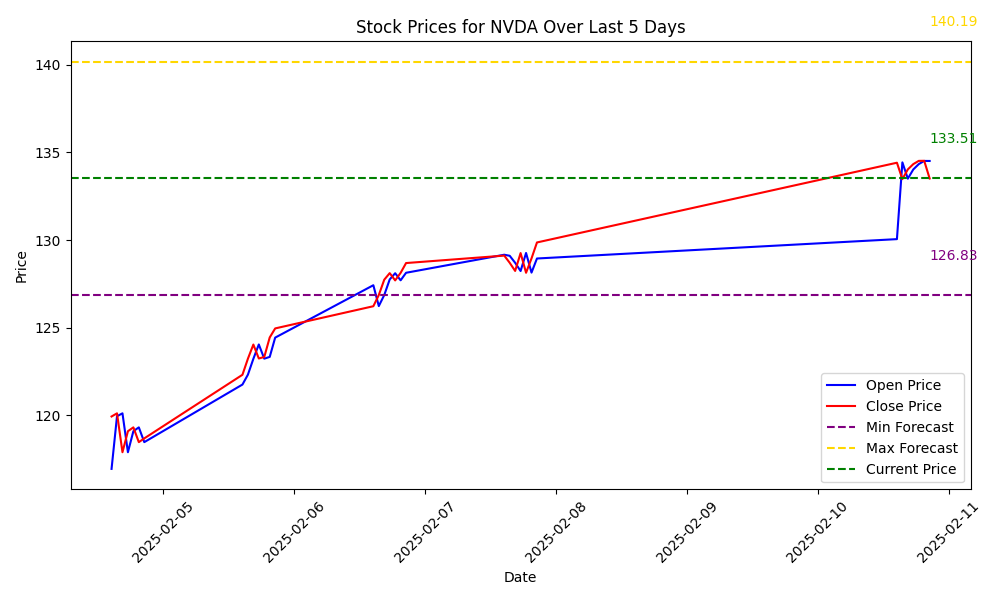
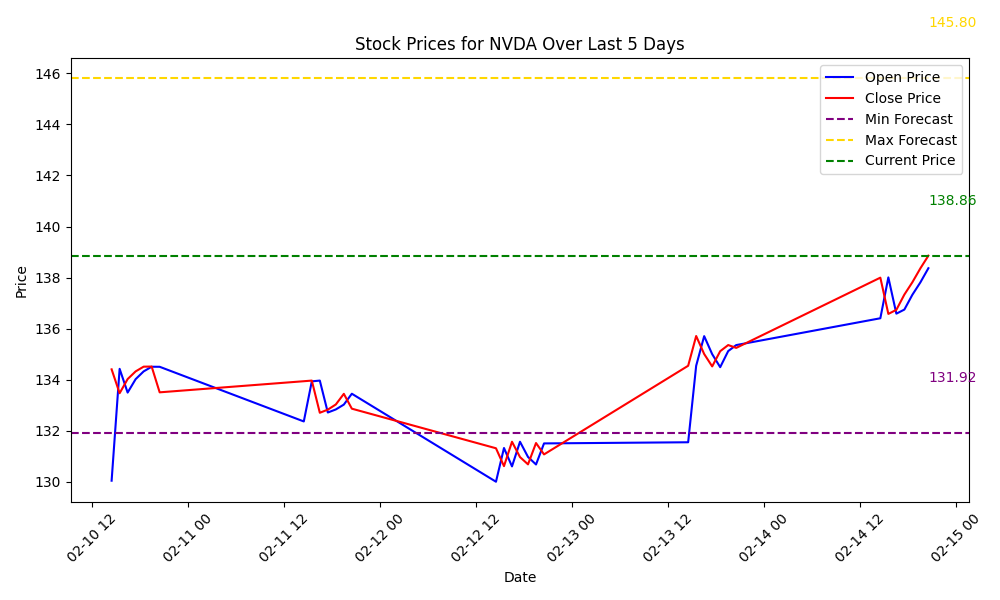
Testing new version

diff --git a/src/model/price_core.py b/src/model/price_core.py
@@ -1,6 +1,7 @@
+import logging
 import os
 from datetime import datetime, timedelta
-import logging
+from pathlib import Path
 
 import joblib
 import matplotlib.pyplot as plt
@@ -12,215 +13,171 @@ from keras.models import load_model
 
 logging.basicConfig(level=logging.INFO)
 
+
 class StockPredictor:
     def __init__(self, model_path=None, scaler_path=None):
-        self.model_path = model_path or os.path.join(os.getcwd(), "IPSA_MODEL", "price", "stock_model.keras")
-        self.scaler_path = scaler_path or os.path.join(os.getcwd(), "IPSA_MODEL", "price", "scaler.save")
+        # Определяем базовую директорию
+        self.base_dir = Path(__file__).parent.parent / "IPSA_MODEL" / "price"
 
-        self.model = load_model(self.model_path)
-        self.scaler = joblib.load(self.scaler_path)
+        # Устанавливаем пути по умолчанию
+        self.model_path = model_path or self.base_dir / "best_model.keras"
+        self.scaler_path = scaler_path or self.base_dir / "stock_scaler.save"
+        # Проверяем существование файлов
+        self._check_files_exist()
 
+        # Загружаем модель и scaler
+        self.model = load_model(str(self.model_path))
+        self.scaler = joblib.load(str(self.scaler_path))
 
-    def predict_price(self, ticker, window_size=249):  # Set window_size to match the model's expected time steps
+        self.window_size = 365
+        self.forecast_days = 60
+
+    def _check_files_exist(self):
+        """Проверяет существование необходимых файлов"""
+        missing_files = []
+
+        if not self.model_path.exists():
+            missing_files.append(str(self.model_path))
+
+        if not self.scaler_path.exists():
+            missing_files.append(str(self.scaler_path))
+
+        if missing_files:
+            raise FileNotFoundError(
+                f"Missing required files: {', '.join(missing_files)}\n"
+                "Please train the model first or provide correct paths."
+            )
+
+    def predict_future(self, ticker):
+        # Загрузка исторических данных
         end_date = datetime.now()
-        start_date = end_date - timedelta(days=window_size)
+        start_date = end_date - timedelta(days=self.window_size + self.forecast_days)
 
-        # Download data
-        data = yf.download(
-            ticker,
-            start=start_date.strftime("%Y-%m-%d"),
-            end=end_date.strftime("%Y-%m-%d"),
+        data = yf.download(ticker, start=start_date, end=end_date)
+
+        if data.empty:
+            raise ValueError(f"No historical data for {ticker}")
+
+        # Подготовка данных
+        scaled_data = self.scaler.transform(
+            data[["Open", "High", "Low", "Close", "Volume", "Adj Close"]]
         )
 
-        # Select multiple features for scaling
-        last_data = data[["Open", "High", "Low", "Close", "Volume", "Adj Close"]].values[-window_size:]
+        # Итеративное прогнозирование
+        predictions = []
+        current_window = scaled_data[-self.window_size :]
 
-        # Scale the data
-        last_data_scaled = self.scaler.transform(last_data)
+        for _ in range(self.forecast_days):
+            # Прогноз следующего дня
+            next_pred = self.model.predict(current_window[np.newaxis, ...])[0][0]
 
-        # Prepare data for the model
-        X_test = np.array([last_data_scaled])  # Shape: (1, 249, 6)
+            # Создание фиктивных данных для следующего шага
+            new_row = np.array(
+                [
+                    [
+                        next_pred,  # Open
+                        next_pred,  # High
+                        next_pred,  # Low
+                        next_pred,  # Close
+                        current_window[-1, 4],  # Volume (последнее известное значение)
+                        next_pred,  # Adj Close
+                    ]
+                ]
+            )
 
-        # Reshape to match the model's input shape
-        X_test = np.reshape(X_test, (X_test.shape[0], X_test.shape[1], X_test.shape[2]))  # Shape: (1, 249, 6)
+            # Обновление окна
+            current_window = np.concatenate([current_window[1:], new_row], axis=0)
+            predictions.append(next_pred)
 
-        # Predict the price
-        predicted_probabilities = self.model.predict(X_test)
+        # Обратное масштабирование прогнозов
+        dummy_data = np.zeros((len(predictions), 6))
+        dummy_data[:, 3] = predictions  # Используем позицию Close
+        predictions = self.scaler.inverse_transform(dummy_data)[:, 3]
 
-        # Clear session to free memory
-        tf.keras.backend.clear_session()
-
-        # Calculate the predicted price
-        predicted_price = last_data[-1, 3] * (1 + (predicted_probabilities[0][0] - 0.5) * 0.1)  # Example calculation
-
-        return float(predicted_price), float(predicted_probabilities[0][0])  # Return predicted price and probability as floats
+        return predictions
 
     def analyze(self, ticker, threshold=0.05):
-        predicted_price, predicted_probability = self.predict_price(ticker)
+        try:
+            predictions = self.predict_future(ticker)
 
-        current_price_data = yf.download(ticker, period="1d")["Close"]
+            # Получаем данные и проверяем их наличие
+            data = yf.download(ticker, period="1d")
+            if data.empty:
+                return f"No data available for {ticker}"
 
-        if current_price_data.empty:
-            logging.error(f"No current price data found for ticker: {ticker}")
-            return None
+            # Явное преобразование к float
+            current_price = float(data["Close"].iloc[-1])
 
-        current_price = current_price_data.iloc[-1]
+            avg_prediction = np.mean(predictions)
+            price_change = (avg_prediction - current_price) / current_price
 
-        if isinstance(current_price, pd.Series):
-            current_price = current_price.iloc[0]
+            # Форматирование сообщения с округлением
+            message = (
+                "────────────────────────────\n"
+                f"{self.forecast_days}-day forecast for {ticker}\n"
+                f"Current price: {current_price:.2f}\n"
+                f"Average predicted price: {avg_prediction:.2f}\n"
+                f"Expected change: {price_change*100:.2f}%\n"
+            )
 
-        # Ensure both prices are floats
-        current_price = float(current_price)
-        predicted_price = float(predicted_price)
+            # Определение рекомендации
+            if price_change > threshold:
+                message += "Recommendation: STRONG BUY"
+            elif price_change > threshold / 2:
+                message += "Recommendation: BUY"
+            elif price_change < -threshold:
+                message += "Recommendation: STRONG SELL"
+            elif price_change < -threshold / 2:
+                message += "Recommendation: SELL"
+            else:
+                message += "Recommendation: HOLD"
 
-        # Form the message
-        message = f"Predicted price for {ticker} next month: {predicted_price:.2f}$\nCurrent price: {current_price:.2f}$\n"
+            return message
 
-        # Use predicted_probability directly since it's already a float
-        predicted_probability_value = predicted_probability  # No need for .item()
+        except Exception as e:
+            logging.error(f"Error in analyze: {str(e)}", exc_info=True)
+            return "Error generating prediction"
 
-        logging.info(f"Probability of price increase: {predicted_probability_value:.2f}")
-
-        price_change_percentage = (predicted_price - current_price) / current_price
-
-        message += f"────────────────────────────\nExpected price change: {price_change_percentage * 100:.2f}%\n"
-
-        if price_change_percentage > threshold:
-            message += "Advice: Buy"
-        elif price_change_percentage < -threshold:
-            message += "Advice: Sell"
-        else:
-            message += "Advice: Wait"
-        return message
-
-    def predict_plt(self, ticker, user_id, period="6mo"):
-        predicted_price, predicted_probability = self.predict_price(ticker)
-
-        historical_data = yf.download(ticker, period=period)
-
-        if historical_data.empty:
-            logging.error(f"No historical data found for ticker: {ticker}")
-            return None
-
-        # Define forecast boundaries
-        min_forecast = float(predicted_price * 0.95)  # Convert to float
-        max_forecast = float(predicted_price * 1.05)  # Convert to float
+    def predict_plt(self, ticker, user_id):
+        predictions = self.predict_future(ticker)
+        history = yf.download(ticker, period="6mo")["Close"]
 
         plt.figure(figsize=(14, 7))
+        plt.plot(history, label="Historical Price")
 
-        plt.plot(
-            historical_data.index,
-            historical_data["Open"],
-            label="Historical Open Price",
-            color="blue",
-        )
-
-        plt.plot(
-            historical_data.index,
-            historical_data["Close"],
-            label="Historical Close Price",
-            color="red",
-        )
-
-        future_dates = [
-            historical_data.index[-1] + timedelta(days=i + 30) for i in range(1, 31)
+        future_dates = pd.date_range(history.index[-1], periods=self.forecast_days + 1)[
+            1:
         ]
-
-        predicted_prices = [predicted_price] * len(future_dates)
-
         plt.plot(
             future_dates,
-            predicted_prices,
-            color="orange",
-            label="Predicted Price",
+            predictions,
+            label=f"{self.forecast_days}-day Forecast",
             linestyle="--",
         )
 
-        plt.scatter(
-            future_dates[0],
-            min_forecast,
-            color="purple",
-            label="Min Forecast",
-            zorder=5,
-            s=50,
+        plt.scatter(future_dates[0], predictions[0], color="red", zorder=5)
+        plt.scatter(future_dates[-1], predictions[-1], color="green", zorder=5)
+
+        plt.fill_between(
+            future_dates,
+            np.min(predictions) * 0.95,
+            np.max(predictions) * 1.05,
+            alpha=0.2,
+            color="gray",
         )
 
-        plt.scatter(
-            future_dates[0],
-            max_forecast,
-            color="gold",
-            label="Max Forecast",
-            zorder=5,
-            s=50,
-        )
-
-        plt.axhline(
-            y=min_forecast,
-            color="purple",
-            linestyle="--",
-            label="Min Forecast Boundary",
-        )
-        plt.axhline(
-            y=max_forecast, color="gold", linestyle="--", label="Max Forecast Boundary"
-        )
-
-        plt.text(
-            future_dates[0],
-            min_forecast + 2,
-            f"{min_forecast:.2f}",  # This will now work
-            fontsize=10,
-            color="purple",
-        )
-        plt.text(
-            future_dates[0],
-            max_forecast + 2,
-            f"{max_forecast:.2f}",  # This will now work
-            fontsize=10,
-            color="gold",
-        )
-
-        plt.scatter (
-            future_dates[0],
-            predicted_price,
-            color="red",
-            label="Predicted Price Point",
-            zorder=5,
-        )
-        plt.text(
-            future_dates[0],
-            predicted_price + 2,
-            f"{predicted_price:.2f}",  # This will now work
-            fontsize=10,
-            color="red",
-        )
-
-        plt.title(f"Price Prediction for {ticker}")
-        plt.xlabel("Date")
-        plt.ylabel("Price")
-
-        # Ensure single value
-        current_price = float(historical_data["Close"].iloc[-1])
-
-        plt.axhline(
-            y=current_price,
-            color="green",
-            linestyle="--",
-            label="Current Price",
-        )
-
-        filename = os.path.join(
-            os.getcwd(), "client_data", f"stock_plot_predict_{user_id}_{ticker}.png"
-        )
-
-        plt.axis("on")
+        plt.title(f"{ticker} Price Forecast")
         plt.legend()
-        plt.savefig(filename)
 
+        filename = f"forecast_{user_id}_{ticker}.png"
+        plt.savefig(filename)
         plt.close()
 
         return filename
 
+
 if __name__ == "__main__":
-    stock_predictor = StockPredictor()
-    print(stock_predictor.analyze("SBUX", 1))
-    stock_predictor.predict_plt("SBUX", 1)
+    ticker = "NVDA"
+    predictor = StockPredictor()
+    print(predictor.analyze(ticker))
+    print(predictor.predict_plt(ticker, "231312"))

diff --git a/src/parsing.py b/src/parsing.py
@@ -8,10 +8,15 @@ import requests
 from user_agent import generate_user_agent
 
 from config import app, logger
-from db import (create_connection, get_city_from_db, get_stocks_list,
-                process_stocks)
-from func import (convert_to_utc, get_time_difference, is_within_period,
-                  notify_user, parse_time_period, to_local)
+from db import create_connection, get_city_from_db, get_stocks_list, process_stocks
+from func import (
+    convert_to_utc,
+    get_time_difference,
+    is_within_period,
+    notify_user,
+    parse_time_period,
+    to_local,
+)
 from model.influence_core import predict_price_influence
 
 links = [

diff --git a/src/handlers.py b/src/handlers.py
@@ -65,8 +65,8 @@ async def start(client, message):
                     parse_mode=enums.ParseMode.MARKDOWN,
                 )
 
-            start_parsing_thread(user_id)
-            start_price_monitor_thread(user_id)
+            # start_parsing_thread(user_id)
+            # start_price_monitor_thread(user_id)
 
         else:
             photo_path = "resources/header.png"
